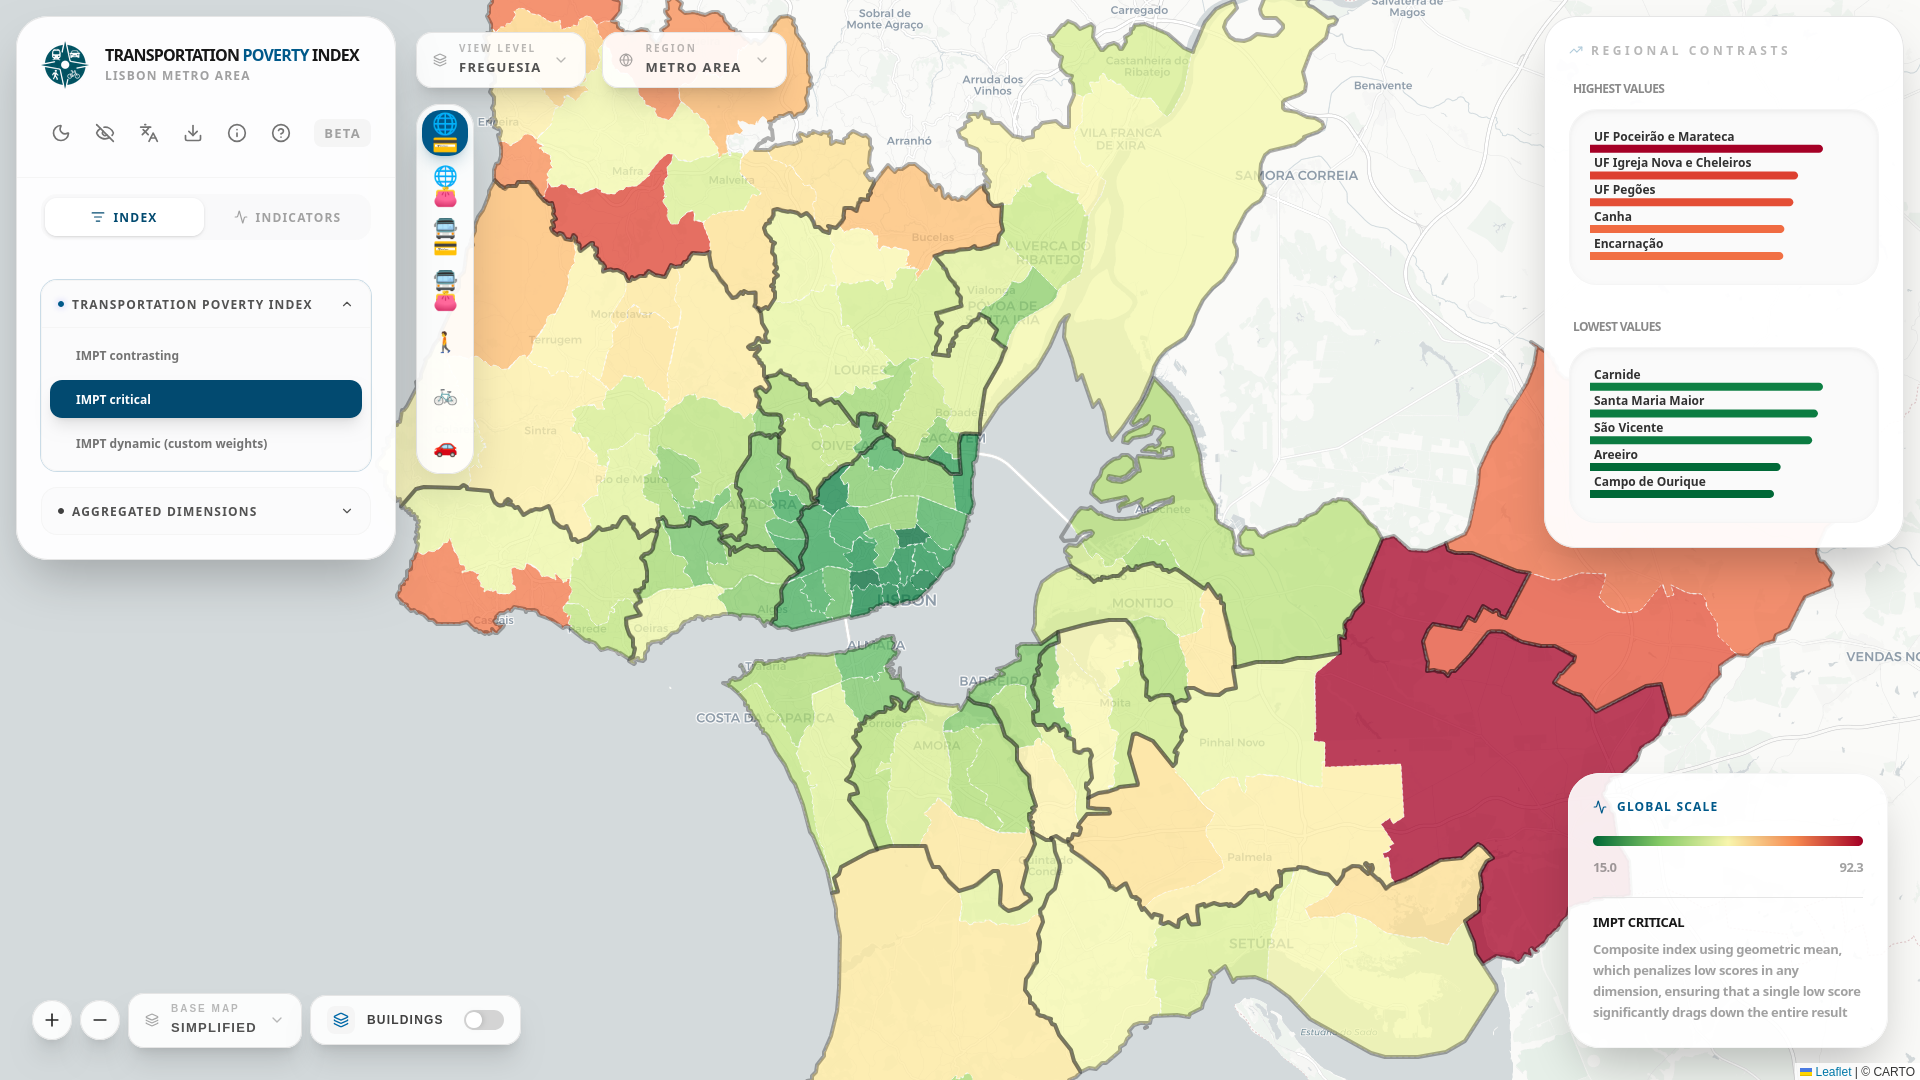
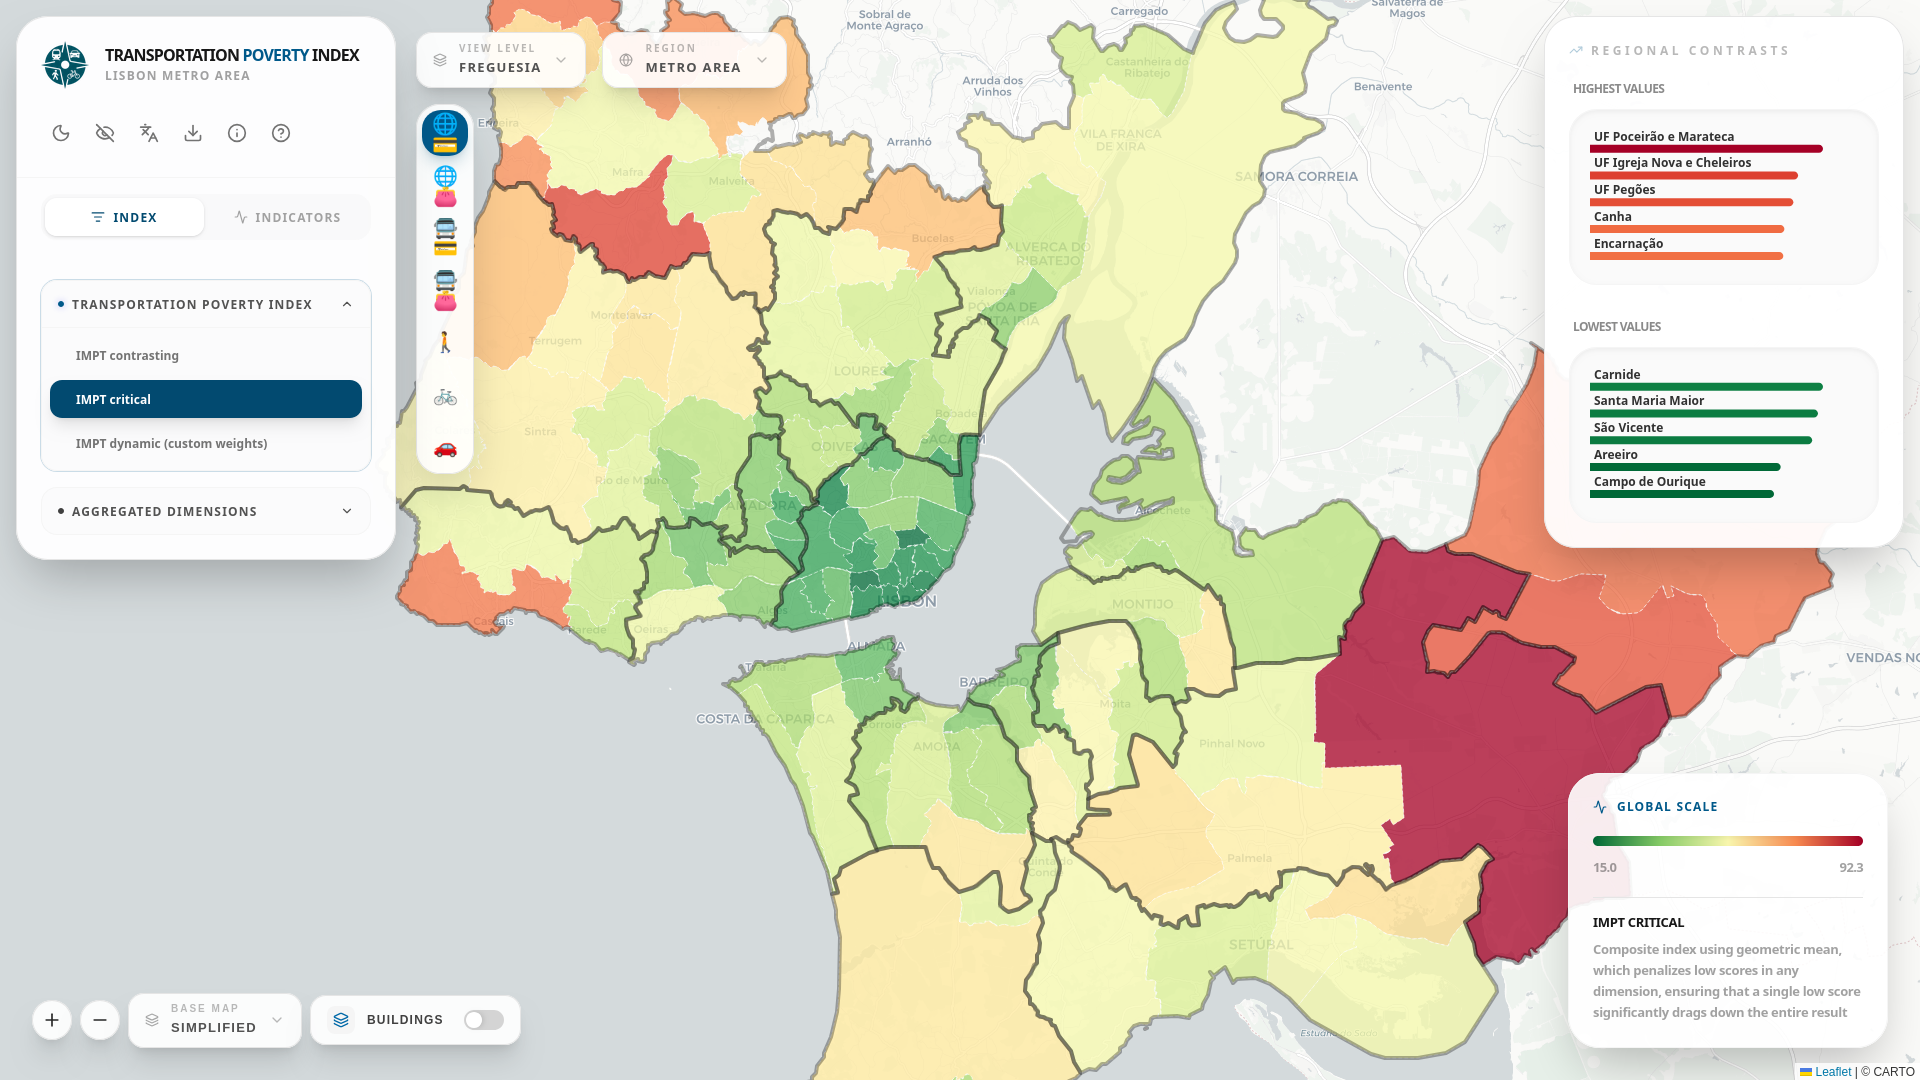
Built site for gh-pages

diff --git a/pca_results.html b/pca_results.html
@@ -514,8 +514,8 @@ Table&nbsp;B.1: PCA diagnostics — variance explained by PC1 (generated from <a
 </figcaption>
 <div aria-describedby="tbl-pca-summary-caption-0ceaefa1-69ba-4598-a22c-09a6ac19f8ca">
 <div class="cell-output-display">
-<div class="datatables html-widget html-fill-item" id="htmlwidget-f468db8bda8e97b778f2" style="width:100%;height:auto;"></div>
-<script type="application/json" data-for="htmlwidget-f468db8bda8e97b778f2">{"x":{"filter":"top","vertical":false,"filterHTML":"<tr>\n  <td data-type=\"factor\" style=\"vertical-align: top;\">\n    <div class=\"form-group has-feedback\" style=\"margin-bottom: auto;\">\n      <input type=\"search\" placeholder=\"All\" class=\"form-control\" style=\"width: 100%;\"/>\n      <span class=\"glyphicon glyphicon-remove-circle form-control-feedback\"><\/span>\n    <\/div>\n    <div style=\"width: 100%; display: none;\">\n      <select multiple=\"multiple\" style=\"width: 100%;\" data-options=\"[&quot;Accessibility&quot;,&quot;Mobility&quot;,&quot;Safety&quot;]\"><\/select>\n    <\/div>\n  <\/td>\n  <td data-type=\"factor\" style=\"vertical-align: top;\">\n    <div class=\"form-group has-feedback\" style=\"margin-bottom: auto;\">\n      <input type=\"search\" placeholder=\"All\" class=\"form-control\" style=\"width: 100%;\"/>\n      <span class=\"glyphicon glyphicon-remove-circle form-control-feedback\"><\/span>\n    <\/div>\n    <div style=\"width: 100%; display: none;\">\n      <select multiple=\"multiple\" style=\"width: 100%;\" data-options=\"[&quot;All&quot;,&quot;Bike&quot;,&quot;Car&quot;,&quot;PT&quot;,&quot;Walk&quot;]\"><\/select>\n    <\/div>\n  <\/td>\n  <td data-type=\"number\" style=\"vertical-align: top;\">\n    <div class=\"form-group has-feedback\" style=\"margin-bottom: auto;\">\n      <input type=\"search\" placeholder=\"All\" class=\"form-control\" style=\"width: 100%;\"/>\n      <span class=\"glyphicon glyphicon-remove-circle form-control-feedback\"><\/span>\n    <\/div>\n    <div style=\"display: none;position: absolute;width: 200px;opacity: 1\">\n      <div data-min=\"47.5\" data-max=\"63.9\" data-scale=\"1\"><\/div>\n      <span style=\"float: left;\"><\/span>\n      <span style=\"float: right;\"><\/span>\n    <\/div>\n  <\/td>\n  <td data-type=\"character\" style=\"vertical-align: top;\">\n    <div class=\"form-group has-feedback\" style=\"margin-bottom: auto;\">\n      <input type=\"search\" placeholder=\"All\" class=\"form-control\" style=\"width: 100%;\"/>\n      <span class=\"glyphicon glyphicon-remove-circle form-control-feedback\"><\/span>\n    <\/div>\n  <\/td>\n  <td data-type=\"number\" style=\"vertical-align: top;\">\n    <div class=\"form-group has-feedback\" style=\"margin-bottom: auto;\">\n      <input type=\"search\" placeholder=\"All\" class=\"form-control\" style=\"width: 100%;\"/>\n      <span class=\"glyphicon glyphicon-remove-circle form-control-feedback\"><\/span>\n    <\/div>\n    <div style=\"display: none;position: absolute;width: 200px;opacity: 1\">\n      <div data-min=\"-0.95\" data-max=\"0.99\" data-scale=\"2\"><\/div>\n      <span style=\"float: left;\"><\/span>\n      <span style=\"float: right;\"><\/span>\n    <\/div>\n  <\/td>\n<\/tr>","data":[["Accessibility","Accessibility","Accessibility","Accessibility","Accessibility","Mobility","Mobility","Mobility","Mobility","Mobility","Safety","Safety","Safety","Safety","Safety","Accessibility","Accessibility","Accessibility","Accessibility","Accessibility","Accessibility","Accessibility","Accessibility","Accessibility","Accessibility","Accessibility","Accessibility","Accessibility","Accessibility","Accessibility","Accessibility","Accessibility","Accessibility","Accessibility","Accessibility","Mobility","Mobility","Mobility","Mobility","Mobility","Mobility","Mobility","Mobility","Mobility","Mobility","Mobility","Mobility","Mobility"],["All","All","All","All","All","All","All","All","All","All","All","All","All","All","All","Car","Car","Car","Car","Car","PT","PT","PT","PT","PT","Bike","Bike","Bike","Bike","Bike","Walk","Walk","Walk","Walk","Walk","PT","PT","PT","PT","PT","Bike","Bike","Bike","Bike","Bike","Walk","Walk","Walk"],[60.2,60.2,60.2,60.2,60.2,47.5,47.5,47.5,47.5,47.5,52.6,52.6,52.6,52.6,52.6,63.9,63.9,63.9,63.9,63.9,62.7,62.7,62.7,62.7,62.7,61.5,61.5,61.5,61.5,61.5,60.6,60.6,60.6,60.6,60.6,60.5,60.5,60.5,60.5,60.5,60,60,60,60,60,50.4,50.4,50.4],["mobility_cost_groceries_walk_n3_residents","mobility_cost_groceries_car_n3_residents","mobility_cost_groceries_transit_2t_n3_residents","mobility_cost_health_bike_n1_residents","mobility_cost_health_transit_2t_n1_residents","mobility_commuting_avg_tt_transit_2t_120m_15w","mobility_transit_weighted_frequency_weekend","mobility_transit_weighted_waiting_time_peak","mobility_transit_weighted_waiting_time_weekend","mobility_transit_weighted_frequency_peak","total_vitimas30","total_acidentes","feridos_ligeiros30","total_veiculos","feridos_graves30","mobility_cost_groceries_car_n3_residents","access_schools_primary_car_30min_kids","mobility_cost_greenspaces_car_n1_residents","access_health_car_30min_residents","mobility_cost_recreation_car_n3_residents","mobility_cost_groceries_transit_2t_n3_residents","access_schools_primary_transit_2t_30min_kids","mobility_cost_health_transit_2t_n1_residents","access_health_transit_2t_30min_residents","mobility_cost_greenspaces_transit_2t_n1_residents","mobility_cost_health_bike_n1_residents","access_schools_primary_bike_15min_kids","access_health_bike_15min_residents","mobility_cost_groceries_bike_n3_residents","mobility_cost_schools_primary_bike_n1_kids","mobility_cost_groceries_walk_n3_residents","mobility_cost_health_walk_n1_residents","access_schools_primary_walk_15min_kids","mobility_cost_schools_primary_walk_n1_kids","mobility_cost_greenspaces_walk_n1_residents","mobility_transit_weighted_frequency_weekend","mobility_commuting_avg_tt_transit_2t_120m_15w","mobility_transit_weighted_waiting_time_peak","mobility_transit_weighted_frequency_peak","mobility_transit_weighted_waiting_time_weekend","segregated_cycleway_length","cycleway_length","cycleway_to_road_ratio","cycling_quality_ratio","mobility_commuting_avg_tt_bike","pedpath_to_road_ratio","mobility_commuting_avg_tt_walk","pedpath_length"],[0.91,0.9,0.9,0.88,0.87,0.93,-0.91,0.87,0.86,-0.86,0.99,0.99,0.99,0.98,0.8,0.91,0.88,0.87,0.87,0.86,0.91,0.89,0.89,0.86,0.85,0.88,0.87,0.85,0.85,0.82,0.89,0.87,0.84,0.84,0.83,-0.95,0.91,0.9,-0.89,0.86,0.93,0.92,0.89,0.53,0.48,0.88,0.86,0.05]],"container":"<table class=\"display\">\n  <thead>\n    <tr>\n      <th>Dimension<\/th>\n      <th>Mode<\/th>\n      <th>PC1 Var (%)<\/th>\n      <th>Variable<\/th>\n      <th>r with PC1<\/th>\n    <\/tr>\n  <\/thead>\n<\/table>","options":{"paging":false,"dom":"tif","autoWidth":true,"columnDefs":[{"className":"dt-center","targets":"_all"},{"name":"Dimension","targets":0},{"name":"Mode","targets":1},{"name":"PC1 Var (%)","targets":2},{"name":"Variable","targets":3},{"name":"r with PC1","targets":4}],"order":[],"orderClasses":false,"orderCellsTop":true}},"evals":[],"jsHooks":[]}</script>
+<div class="datatables html-widget html-fill-item" id="htmlwidget-12091d54ed908fdad7db" style="width:100%;height:auto;"></div>
+<script type="application/json" data-for="htmlwidget-12091d54ed908fdad7db">{"x":{"filter":"top","vertical":false,"filterHTML":"<tr>\n  <td data-type=\"factor\" style=\"vertical-align: top;\">\n    <div class=\"form-group has-feedback\" style=\"margin-bottom: auto;\">\n      <input type=\"search\" placeholder=\"All\" class=\"form-control\" style=\"width: 100%;\"/>\n      <span class=\"glyphicon glyphicon-remove-circle form-control-feedback\"><\/span>\n    <\/div>\n    <div style=\"width: 100%; display: none;\">\n      <select multiple=\"multiple\" style=\"width: 100%;\" data-options=\"[&quot;Accessibility&quot;,&quot;Mobility&quot;,&quot;Safety&quot;]\"><\/select>\n    <\/div>\n  <\/td>\n  <td data-type=\"factor\" style=\"vertical-align: top;\">\n    <div class=\"form-group has-feedback\" style=\"margin-bottom: auto;\">\n      <input type=\"search\" placeholder=\"All\" class=\"form-control\" style=\"width: 100%;\"/>\n      <span class=\"glyphicon glyphicon-remove-circle form-control-feedback\"><\/span>\n    <\/div>\n    <div style=\"width: 100%; display: none;\">\n      <select multiple=\"multiple\" style=\"width: 100%;\" data-options=\"[&quot;All&quot;,&quot;Bike&quot;,&quot;Car&quot;,&quot;PT&quot;,&quot;Walk&quot;]\"><\/select>\n    <\/div>\n  <\/td>\n  <td data-type=\"number\" style=\"vertical-align: top;\">\n    <div class=\"form-group has-feedback\" style=\"margin-bottom: auto;\">\n      <input type=\"search\" placeholder=\"All\" class=\"form-control\" style=\"width: 100%;\"/>\n      <span class=\"glyphicon glyphicon-remove-circle form-control-feedback\"><\/span>\n    <\/div>\n    <div style=\"display: none;position: absolute;width: 200px;opacity: 1\">\n      <div data-min=\"47.5\" data-max=\"63.9\" data-scale=\"1\"><\/div>\n      <span style=\"float: left;\"><\/span>\n      <span style=\"float: right;\"><\/span>\n    <\/div>\n  <\/td>\n  <td data-type=\"character\" style=\"vertical-align: top;\">\n    <div class=\"form-group has-feedback\" style=\"margin-bottom: auto;\">\n      <input type=\"search\" placeholder=\"All\" class=\"form-control\" style=\"width: 100%;\"/>\n      <span class=\"glyphicon glyphicon-remove-circle form-control-feedback\"><\/span>\n    <\/div>\n  <\/td>\n  <td data-type=\"number\" style=\"vertical-align: top;\">\n    <div class=\"form-group has-feedback\" style=\"margin-bottom: auto;\">\n      <input type=\"search\" placeholder=\"All\" class=\"form-control\" style=\"width: 100%;\"/>\n      <span class=\"glyphicon glyphicon-remove-circle form-control-feedback\"><\/span>\n    <\/div>\n    <div style=\"display: none;position: absolute;width: 200px;opacity: 1\">\n      <div data-min=\"-0.95\" data-max=\"0.99\" data-scale=\"2\"><\/div>\n      <span style=\"float: left;\"><\/span>\n      <span style=\"float: right;\"><\/span>\n    <\/div>\n  <\/td>\n<\/tr>","data":[["Accessibility","Accessibility","Accessibility","Accessibility","Accessibility","Mobility","Mobility","Mobility","Mobility","Mobility","Safety","Safety","Safety","Safety","Safety","Accessibility","Accessibility","Accessibility","Accessibility","Accessibility","Accessibility","Accessibility","Accessibility","Accessibility","Accessibility","Accessibility","Accessibility","Accessibility","Accessibility","Accessibility","Accessibility","Accessibility","Accessibility","Accessibility","Accessibility","Mobility","Mobility","Mobility","Mobility","Mobility","Mobility","Mobility","Mobility","Mobility","Mobility","Mobility","Mobility","Mobility"],["All","All","All","All","All","All","All","All","All","All","All","All","All","All","All","Car","Car","Car","Car","Car","PT","PT","PT","PT","PT","Bike","Bike","Bike","Bike","Bike","Walk","Walk","Walk","Walk","Walk","PT","PT","PT","PT","PT","Bike","Bike","Bike","Bike","Bike","Walk","Walk","Walk"],[60.2,60.2,60.2,60.2,60.2,47.5,47.5,47.5,47.5,47.5,52.6,52.6,52.6,52.6,52.6,63.9,63.9,63.9,63.9,63.9,62.7,62.7,62.7,62.7,62.7,61.5,61.5,61.5,61.5,61.5,60.6,60.6,60.6,60.6,60.6,60.5,60.5,60.5,60.5,60.5,60,60,60,60,60,50.4,50.4,50.4],["mobility_cost_groceries_walk_n3_residents","mobility_cost_groceries_car_n3_residents","mobility_cost_groceries_transit_2t_n3_residents","mobility_cost_health_bike_n1_residents","mobility_cost_health_transit_2t_n1_residents","mobility_commuting_avg_tt_transit_2t_120m_15w","mobility_transit_weighted_frequency_weekend","mobility_transit_weighted_waiting_time_peak","mobility_transit_weighted_waiting_time_weekend","mobility_transit_weighted_frequency_peak","total_vitimas30","total_acidentes","feridos_ligeiros30","total_veiculos","feridos_graves30","mobility_cost_groceries_car_n3_residents","access_schools_primary_car_30min_kids","mobility_cost_greenspaces_car_n1_residents","access_health_car_30min_residents","mobility_cost_recreation_car_n3_residents","mobility_cost_groceries_transit_2t_n3_residents","access_schools_primary_transit_2t_30min_kids","mobility_cost_health_transit_2t_n1_residents","access_health_transit_2t_30min_residents","mobility_cost_greenspaces_transit_2t_n1_residents","mobility_cost_health_bike_n1_residents","access_schools_primary_bike_15min_kids","access_health_bike_15min_residents","mobility_cost_groceries_bike_n3_residents","mobility_cost_schools_primary_bike_n1_kids","mobility_cost_groceries_walk_n3_residents","mobility_cost_health_walk_n1_residents","access_schools_primary_walk_15min_kids","mobility_cost_schools_primary_walk_n1_kids","mobility_cost_greenspaces_walk_n1_residents","mobility_transit_weighted_frequency_weekend","mobility_commuting_avg_tt_transit_2t_120m_15w","mobility_transit_weighted_waiting_time_peak","mobility_transit_weighted_frequency_peak","mobility_transit_weighted_waiting_time_weekend","segregated_cycleway_length","cycleway_length","cycleway_to_road_ratio","cycling_quality_ratio","mobility_commuting_avg_tt_bike","pedpath_to_road_ratio","mobility_commuting_avg_tt_walk","pedpath_length"],[0.91,0.9,0.9,0.88,0.87,0.93,-0.91,0.87,0.86,-0.86,0.99,0.99,0.99,0.98,0.8,0.91,0.88,0.87,0.87,0.86,0.91,0.89,0.89,0.86,0.85,0.88,0.87,0.85,0.85,0.82,0.89,0.87,0.84,0.84,0.83,-0.95,0.91,0.9,-0.89,0.86,0.93,0.92,0.89,0.53,0.48,0.88,0.86,0.05]],"container":"<table class=\"display\">\n  <thead>\n    <tr>\n      <th>Dimension<\/th>\n      <th>Mode<\/th>\n      <th>PC1 Var (%)<\/th>\n      <th>Variable<\/th>\n      <th>r with PC1<\/th>\n    <\/tr>\n  <\/thead>\n<\/table>","options":{"paging":false,"dom":"tif","autoWidth":true,"columnDefs":[{"className":"dt-center","targets":"_all"},{"name":"Dimension","targets":0},{"name":"Mode","targets":1},{"name":"PC1 Var (%)","targets":2},{"name":"Variable","targets":3},{"name":"r with PC1","targets":4}],"order":[],"orderClasses":false,"orderCellsTop":true}},"evals":[],"jsHooks":[]}</script>
 </div>
 </div>
 </figure>
